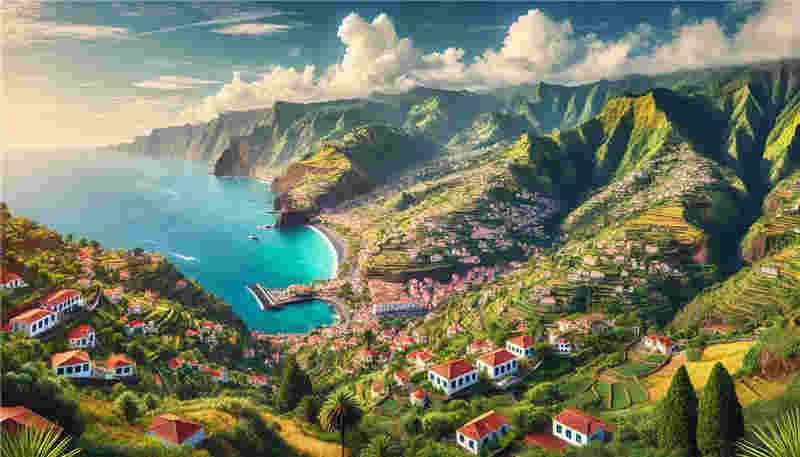
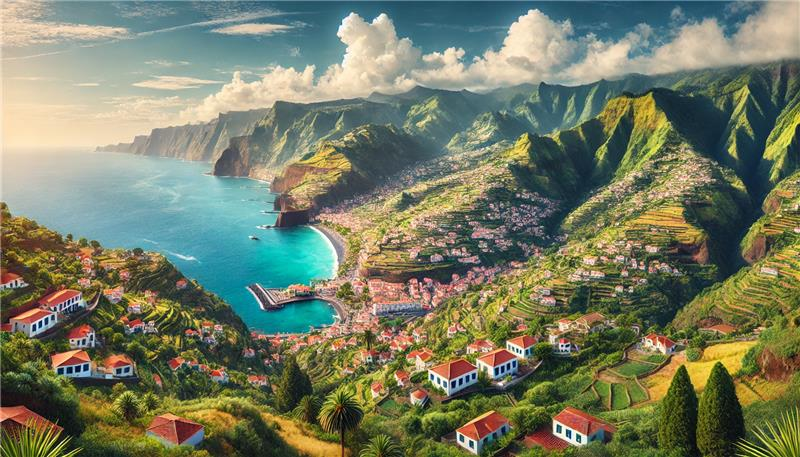
adicionado trasicao no  formulario index, adicionado transicao na pagina destino, deletadas fotos com grande mb

diff --git a/script/main-form.js b/script/main-form.js
@@ -1,25 +1,47 @@
+
 function inicializar() {
   clicar("pacotes");
 }
+
 function clicar(valor) {
-  // Definir todos os links e divs como não destacados e escondidos
   const links = ["pacotes", "voomedida", "voohotel"];
   const divs = ["target-div1", "target-div2", "target-div3"];
 
-  links.forEach((id) => {
-    document.getElementById(id).classList.remove("backgroudhover");
-  });
+  // Encontre a div atualmente visível
+  const currentDiv = divs.find(div => document.getElementById(div).classList.contains("visivel"));
 
-  divs.forEach((id) => {
-    document.getElementById(id).classList.add("naovisivel");
-  });
+  // Se houver uma div visível, aplique a animação de subida e depois exiba a nova
+  if (currentDiv) {
+    const currentElement = document.getElementById(currentDiv);
+    currentElement.classList.add("subindo");
 
-  // Destacar o link clicado e mostrar a div correspondente
+    // Espera a transição de subida terminar antes de esconder a atual e mostrar a próxima
+    setTimeout(() => {
+      currentElement.classList.remove("visivel", "subindo");
+      currentElement.classList.add("naovisivel");
+
+      // Mostrar o próximo conteúdo
+      showNewContent(valor, links, divs);
+    }, 500); // Tempo deve coincidir com a duração da transição CSS
+  } else {
+    // Se não houver div visível (inicialização), exibe o primeiro conteúdo diretamente
+    showNewContent(valor, links, divs);
+  }
+}
+
+function showNewContent(valor, links, divs) {
   if (links.includes(valor)) {
     const link = document.getElementById(valor);
     const index = links.indexOf(valor);
+
+    // Destacar o link clicado
+    links.forEach(id => document.getElementById(id).classList.remove("backgroudhover"));
     link.classList.add("backgroudhover");
-    document.getElementById(divs[index]).classList.remove("naovisivel");
+
+    // Mostrar a div correspondente
+    const newDiv = document.getElementById(divs[index]);
+    newDiv.classList.remove("naovisivel");
+    newDiv.classList.add("visivel");
   }
 }
 
@@ -34,6 +56,20 @@ document
   .getElementById("voohotel")
   .addEventListener("click", () => clicar("voohotel"));
 
+window.onload = inicializar;
+
+
+
+
+
+
+
+
+
+
+
+
+/********************************************************************************************************** */
 function abrirPassageiros(valor) {
   // Definir todos os links e divs como não destacados e escondidos
   const links = ["pass", "pass2"];

diff --git a/index.html b/index.html
@@ -10,7 +10,7 @@
   
 </head>
 
-<body onload="inicializar()">
+<body>
   <header id="header-bg">
     <div class="container">
       <nav id="nav-bg" class="navbar navbar-expand-lg bg-body-tertiary">
@@ -28,7 +28,7 @@
                 <a class="nav-link active" aria-current="page" href="./pages/destinos.html">Destinos</a>
               </li>
               <li class="nav-item">
-                <a class="nav-link" href="./blog/dicas.html">Dicas</a>
+                <a class="nav-link" href="./pages/blog/dicas.html">Dicas</a>
               </li>
               <li class="nav-item">
                 <a class="nav-link" href="./pages/reservas.html">Reservas</a>
@@ -431,7 +431,7 @@
         </div>
         <div class="card-bg card-modificacoes">
           <a href="./pages/ilha-da-madeira.html">
-            <div class="div-img-card"><img src="./images/ilha-madeira.jpg" alt="imagem card"></div>
+            <div class="div-img-card"><img src="./images/cards-page-destino/ilha-madeira.jpg" alt="imagem card"></div>
           </a>
           <div class="descricao-viagem cor-01">
             <h5 class="card-title">ILHA DA MADEIRA</h5>

diff --git a/css/global/global.css b/css/global/global.css
@@ -29,12 +29,33 @@ p {
   background-color: var(--cor-03) !important;
   color: var(--cor-01) !important;
 }
+/*************************************************************************/
+
+/* Classe para ocultar o conteúdo com transição */
 .naovisivel {
-  display: none;
+  opacity: 0;
+  visibility: hidden;
+  transition: opacity 0.2s ease, visibility 0.2s ease;
+  position: absolute;
+  top: 20px; /* Pode ajustar conforme o layout */
 }
+
+/* Classe para exibir o conteúdo */
 .visivel {
-  display: block;
+  opacity: 1;
+  visibility: visible;
+  transition: opacity 0.2s ease, visibility 0.2s ease;
+  top: 0;
 }
+/* Animação de subida */
+.subindo {
+  transition: top 0.2s ease, opacity 0.2s ease;
+  top: -20px; /* Ajusta conforme o layout */
+  opacity: 0;
+}
+
+
+/*************************************************************************/
 html,
 body {
   height: 100%;

diff --git a/css/destino/destino.css b/css/destino/destino.css
@@ -28,10 +28,6 @@
   margin-top: 0px;
 }
 
-/*.card-destino  .div-img-card img:hover{
-  box-shadow: 1px 1px 10px 1px #1422304d;
-  transition: 0.4s ease;
-}*/
 
 .card-destino{
   overflow: hidden;
@@ -39,13 +35,14 @@
 }
 
 .card-div-container-destino img{
-  
   transition: 0.3s ease;
   opacity: 0.85;
 }
+
 .card-destino img:hover{
-transition: transform 0.3s ease;
  opacity: initial;
+ transform: scale(1.1);
+ transition: transform 2s;
 }
 .div-img-card{
   position: relative;
@@ -67,11 +64,11 @@ transition: transform 0.3s ease;
   width: 100%;
   background-color: #6bc3b3;
   border-radius: 0px 0px 15px 15px;
-  transition: transform 2s ease;
+  transition: 0.3s ease;
 }
 .card-destino:hover  .efeito{
-  display: none;
-  transition: 2s ease-in-out;
+  opacity: 0;
+  transition: all 0.3s ease;
 }
 
 

diff --git a/css/global/main.css b/css/global/main.css
@@ -48,6 +48,7 @@ main .categorias-tab .categorias-tab-itens:hover {
   background-color: var(--cor-03);
   color: var(--cor-01);
 }
+
 main .div-conteudo-inputs > form {
   align-items: center;
 }
@@ -79,7 +80,7 @@ main .div-conteudo-inputs .div-inputs {
 
 main .estilo-select {
   padding: 10px;
-  border: outset;
+  outline: none;
   border: 1px solid rgba(157, 155, 155, 0.566);
   width: 100%;
 }
@@ -227,6 +228,12 @@ div span.preco {
 @media (max-width: 650px) {
   main .categorias-tab {
     flex-direction: column;
+  }
+  .div-cards-viagens {
+    padding-top: 20px;
+  }
+  main{
+    padding-bottom: 80px;
   }
 }
 

diff --git a/pages/destinos.html b/pages/destinos.html
@@ -27,7 +27,7 @@
                 <a class="nav-link active" aria-current="page" href="../pages/destinos.html">Destinos</a>
               </li>
               <li class="nav-item">
-                <a class="nav-link" href="./../blog/dicas.html">Dicas</a>
+                <a class="nav-link" href="./blog/dicas.html">Dicas</a>
               </li>
               <li class="nav-item">
                 <a class="nav-link" href="./../pages/reservas.html">Reservas</a>
